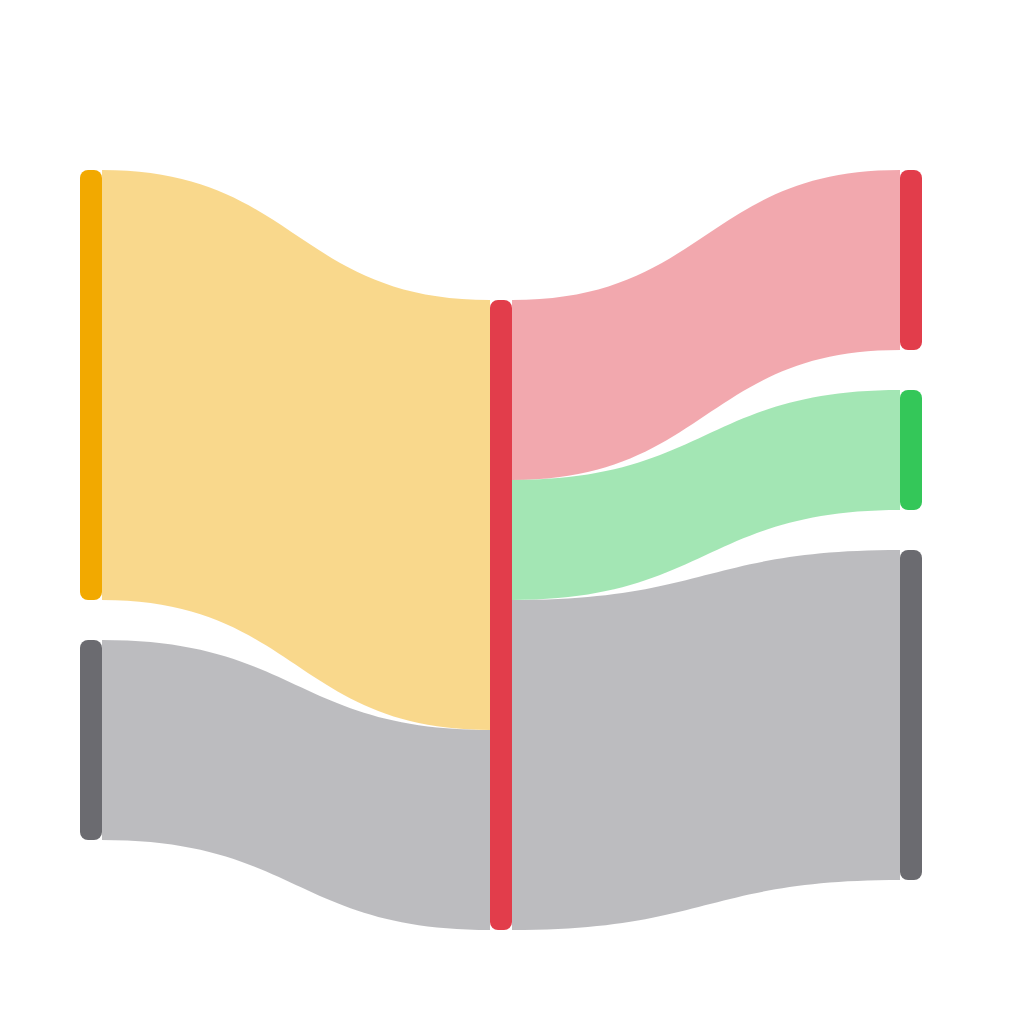
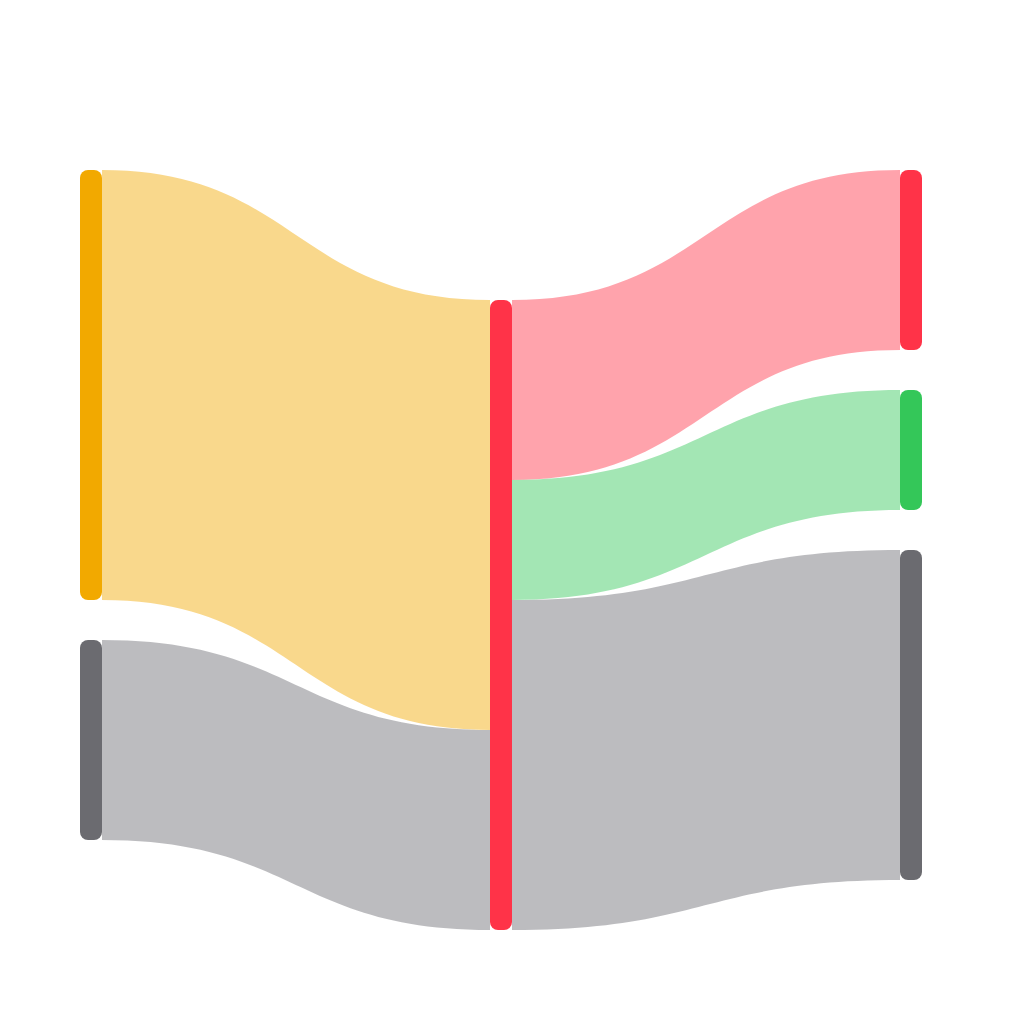
new color scheme

Changed region(s): [[0.4688, 0.2812, 0.5, 0.9062], [0.875, 0.1562, 0.9062, 0.3438]]

diff --git a/widgets/grid/public/index.html b/widgets/grid/public/index.html
@@ -45,7 +45,7 @@
     var X0 = 34; // y labels to the left: 34 (W, kW), 46 (kWh)
     var TOP = 6;
     var AXIS = 14;
-    var FILL = 0.35; // under the measured line
+    var FILL = 1; // under the measured line
     var PALE = 0.4; // expected, as the graph (Palette.PALE)
 
     function el(tag, attrs, parent, text) {
@@ -352,7 +352,7 @@
           var area = line + 'L' + pts[pts.length - 1][0].toFixed(2) + ' ' + y0.toFixed(2) + 'L' + pts[0][0].toFixed(2) + ' ' + y0.toFixed(2) + 'Z';
           [[up, '--c-use'], [down, '--c-export']].forEach(function (p) {
             el('path', { d: area, fill: 'var(' + p[1] + ')', opacity: FILL, 'clip-path': p[0] }, svg);
-            el('path', { d: line, fill: 'none', stroke: 'var(' + p[1] + ')', 'stroke-width': 1, 'stroke-linejoin': 'round', 'clip-path': p[0] }, svg);
+            el('path', { d: line, fill: 'none', stroke: 'var(' + p[1] + ')', 'stroke-width': 2, 'stroke-linejoin': 'round', 'clip-path': p[0] }, svg);
           });
           pts.forEach(function (p) { if (p[1] < y0 - 0.5) hasIn = true; else if (p[1] > y0 + 0.5) hasOut = true; });
         });
@@ -373,8 +373,8 @@
           el('line', { x1: nx, x2: nx, y1: TOP, y2: bottom, class: 'now' }, svg);
         }
         var items = [];
-        if (hasIn) items.push([cap(t('import')), FILL * 2, '--c-use']);
-        if (hasOut) items.push([cap(t('export')), FILL * 2, '--c-export']);
+        if (hasIn) items.push([cap(t('import')), FILL, '--c-use']);
+        if (hasOut) items.push([cap(t('export')), FILL, '--c-export']);
         if (bars.in || bars.out) items.push([t('expected'), PALE, '--c-use']);
         drawLegend(items);
         chart = {

diff --git a/widgets/plan/public/index.html b/widgets/plan/public/index.html
@@ -230,7 +230,7 @@
       }
 
       // Charging in the use colour, discharging in the export colour, as the device graphs: more
-      // solid at more power (0.35-1 of the max (dis)charge power, Palette.powerAlpha; full without
+      // solid at more power (0.7-1 of the max (dis)charge power, Palette.powerAlpha; full without
       // a max), in steps of 0.05 so equal slots join.
       function powerBand(g, vals, color, y, h, sw, max) {
         max = max || {};
@@ -247,7 +247,7 @@
           if (!v) { flush(); return; }
           var fill = v > 0 ? 'var(--c-use)' : 'var(--c-export)';
           var top = v > 0 ? max.charge : max.discharge;
-          var alpha = top > 0 ? Math.round((0.35 + 0.65 * Math.min(1, Math.abs(v) / top)) * 20) / 20 : 1;
+          var alpha = top > 0 ? Math.round((0.7 + 0.3 * Math.min(1, Math.abs(v) / top)) * 20) / 20 : 1;
           if (seg && seg.fill === fill && seg.alpha === alpha && seg.to === i) {
             seg.to = i + 1;
             return;
@@ -269,7 +269,7 @@
               var avg = a.w.slice(r[0], r[1]).reduce(function (x, y) { return x + y; }, 0) / (r[1] - r[0]);
               el('rect', {
                 x: X0 + r[0] * sw, y: top + 2 + ai * rowH + 1, width: (r[1] - r[0]) * sw, height: Math.max(2, rowH - 2), rx: Math.min(4, rowH / 2),
-                fill: color, opacity: 0.35 + 0.65 * (avg / peak),
+                fill: color, opacity: 0.7 + 0.3 * (avg / peak),
               }, g);
             });
           });

diff --git a/tools/widget-preview/gen.js b/tools/widget-preview/gen.js
@@ -15,10 +15,10 @@ const THEMES = {
 
 const SOLAR = '#F2A900';
 const GREEN = '#34C759';
-const CHEAP = '#2F9E44';
-const DEAR = '#8B5CF6';
-const USE = '#E23D4B';
-const EXPORT = '#2F74E0';
+const CHEAP = '#22C55E';
+const DEAR = '#B04DFF';
+const USE = '#FF3348';
+const EXPORT = '#1F8FFF';
 
 const pill = (x, y, w, h, fill) => `<rect x="${x}" y="${y}" width="${w}" height="${h}" rx="${h / 2}" fill="${fill}"/>`;
 
@@ -196,7 +196,7 @@ const gridPreview = (t) => {
   ${[0, 1, 2].map((i) => `${pill(64 + i * 310, 160, 190, 34, t.shape)}${pill(64 + i * 310, 210, 130, 22, t.track)}`).join('')}
   ${[-1, 0, 1].map((i) => `<rect x="${x0}" y="${mid + i * 280}" width="${x1 - x0}" height="5" rx="2.5" fill="${t.track}"/>`).join('')}
   ${bars}
-  <path d="${area}" fill="${USE}" opacity="0.35" clip-path="url(#up)"/><path d="${area}" fill="${EXPORT}" opacity="0.35" clip-path="url(#down)"/>
+  <path d="${area}" fill="${USE}" clip-path="url(#up)"/><path d="${area}" fill="${EXPORT}" clip-path="url(#down)"/>
   <polyline points="${line}" fill="none" stroke="${USE}" stroke-width="12" stroke-linejoin="round" stroke-linecap="round" clip-path="url(#up)"/>
   <polyline points="${line}" fill="none" stroke="${EXPORT}" stroke-width="12" stroke-linejoin="round" stroke-linecap="round" clip-path="url(#down)"/>
   <rect x="${nowX - 4}" y="300" width="8" height="${900 - 300}" rx="4" fill="${t.shape}"/>

diff --git a/widgets/battery/public/colors.css b/widgets/battery/public/colors.css
@@ -5,25 +5,25 @@
   --muted: var(--homey-text-color-light, #8e8e93);
   --line: var(--homey-line-color, rgba(128, 128, 128, 0.25));
   --node-bg: var(--homey-background-color, #ffffff);
-  --c-use: rgb(226, 61, 75);
+  --c-use: rgb(255, 51, 72);
   --c-grid: rgb(122, 134, 160);
   --c-solar: rgb(242, 169, 0);
   --c-battery: rgb(46, 184, 114);
   --c-ev: rgb(142, 108, 239);
-  --c-home: rgb(226, 61, 75);
+  --c-home: rgb(255, 51, 72);
   --c-gas: rgb(232, 89, 12);
   --c-water: rgb(14, 165, 233);
   --c-climate: rgb(230, 73, 128);
   --c-appliance: rgb(20, 184, 166);
   --c-zone: rgb(52, 199, 123);
-  --c-export: rgb(47, 116, 224);
-  --c-xom: rgba(47, 116, 224, 0.6);
+  --c-export: rgb(31, 143, 255);
+  --c-xom: rgb(124, 196, 255);
   --c-price: rgb(142, 142, 147);
-  --c-free: rgb(28, 107, 48);
-  --c-cheap: rgb(47, 158, 68);
+  --c-free: rgb(0, 224, 164);
+  --c-cheap: rgb(34, 197, 94);
   --c-normal: rgba(142, 142, 147, 0.45);
-  --c-dear: rgb(139, 92, 246);
-  --c-hold: rgb(122, 134, 160);
+  --c-dear: rgb(176, 77, 255);
+  --c-hold: rgb(179, 188, 204);
   --c-idle: rgba(142, 142, 147, 0.45);
   --c-average: rgb(176, 137, 104);
   --pale: 0.4;

diff --git a/widgets/energy/public/colors.css b/widgets/energy/public/colors.css
@@ -5,25 +5,25 @@
   --muted: var(--homey-text-color-light, #8e8e93);
   --line: var(--homey-line-color, rgba(128, 128, 128, 0.25));
   --node-bg: var(--homey-background-color, #ffffff);
-  --c-use: rgb(226, 61, 75);
+  --c-use: rgb(255, 51, 72);
   --c-grid: rgb(122, 134, 160);
   --c-solar: rgb(242, 169, 0);
   --c-battery: rgb(46, 184, 114);
   --c-ev: rgb(142, 108, 239);
-  --c-home: rgb(226, 61, 75);
+  --c-home: rgb(255, 51, 72);
   --c-gas: rgb(232, 89, 12);
   --c-water: rgb(14, 165, 233);
   --c-climate: rgb(230, 73, 128);
   --c-appliance: rgb(20, 184, 166);
   --c-zone: rgb(52, 199, 123);
-  --c-export: rgb(47, 116, 224);
-  --c-xom: rgba(47, 116, 224, 0.6);
+  --c-export: rgb(31, 143, 255);
+  --c-xom: rgb(124, 196, 255);
   --c-price: rgb(142, 142, 147);
-  --c-free: rgb(28, 107, 48);
-  --c-cheap: rgb(47, 158, 68);
+  --c-free: rgb(0, 224, 164);
+  --c-cheap: rgb(34, 197, 94);
   --c-normal: rgba(142, 142, 147, 0.45);
-  --c-dear: rgb(139, 92, 246);
-  --c-hold: rgb(122, 134, 160);
+  --c-dear: rgb(176, 77, 255);
+  --c-hold: rgb(179, 188, 204);
   --c-idle: rgba(142, 142, 147, 0.45);
   --c-average: rgb(176, 137, 104);
   --pale: 0.4;

diff --git a/widgets/ev/public/colors.css b/widgets/ev/public/colors.css
@@ -5,25 +5,25 @@
   --muted: var(--homey-text-color-light, #8e8e93);
   --line: var(--homey-line-color, rgba(128, 128, 128, 0.25));
   --node-bg: var(--homey-background-color, #ffffff);
-  --c-use: rgb(226, 61, 75);
+  --c-use: rgb(255, 51, 72);
   --c-grid: rgb(122, 134, 160);
   --c-solar: rgb(242, 169, 0);
   --c-battery: rgb(46, 184, 114);
   --c-ev: rgb(142, 108, 239);
-  --c-home: rgb(226, 61, 75);
+  --c-home: rgb(255, 51, 72);
   --c-gas: rgb(232, 89, 12);
   --c-water: rgb(14, 165, 233);
   --c-climate: rgb(230, 73, 128);
   --c-appliance: rgb(20, 184, 166);
   --c-zone: rgb(52, 199, 123);
-  --c-export: rgb(47, 116, 224);
-  --c-xom: rgba(47, 116, 224, 0.6);
+  --c-export: rgb(31, 143, 255);
+  --c-xom: rgb(124, 196, 255);
   --c-price: rgb(142, 142, 147);
-  --c-free: rgb(28, 107, 48);
-  --c-cheap: rgb(47, 158, 68);
+  --c-free: rgb(0, 224, 164);
+  --c-cheap: rgb(34, 197, 94);
   --c-normal: rgba(142, 142, 147, 0.45);
-  --c-dear: rgb(139, 92, 246);
-  --c-hold: rgb(122, 134, 160);
+  --c-dear: rgb(176, 77, 255);
+  --c-hold: rgb(179, 188, 204);
   --c-idle: rgba(142, 142, 147, 0.45);
   --c-average: rgb(176, 137, 104);
   --pale: 0.4;

diff --git a/widgets/flows/public/colors.css b/widgets/flows/public/colors.css
@@ -5,25 +5,25 @@
   --muted: var(--homey-text-color-light, #8e8e93);
   --line: var(--homey-line-color, rgba(128, 128, 128, 0.25));
   --node-bg: var(--homey-background-color, #ffffff);
-  --c-use: rgb(226, 61, 75);
+  --c-use: rgb(255, 51, 72);
   --c-grid: rgb(122, 134, 160);
   --c-solar: rgb(242, 169, 0);
   --c-battery: rgb(46, 184, 114);
   --c-ev: rgb(142, 108, 239);
-  --c-home: rgb(226, 61, 75);
+  --c-home: rgb(255, 51, 72);
   --c-gas: rgb(232, 89, 12);
   --c-water: rgb(14, 165, 233);
   --c-climate: rgb(230, 73, 128);
   --c-appliance: rgb(20, 184, 166);
   --c-zone: rgb(52, 199, 123);
-  --c-export: rgb(47, 116, 224);
-  --c-xom: rgba(47, 116, 224, 0.6);
+  --c-export: rgb(31, 143, 255);
+  --c-xom: rgb(124, 196, 255);
   --c-price: rgb(142, 142, 147);
-  --c-free: rgb(28, 107, 48);
-  --c-cheap: rgb(47, 158, 68);
+  --c-free: rgb(0, 224, 164);
+  --c-cheap: rgb(34, 197, 94);
   --c-normal: rgba(142, 142, 147, 0.45);
-  --c-dear: rgb(139, 92, 246);
-  --c-hold: rgb(122, 134, 160);
+  --c-dear: rgb(176, 77, 255);
+  --c-hold: rgb(179, 188, 204);
   --c-idle: rgba(142, 142, 147, 0.45);
   --c-average: rgb(176, 137, 104);
   --pale: 0.4;

diff --git a/widgets/grid/public/colors.css b/widgets/grid/public/colors.css
@@ -5,25 +5,25 @@
   --muted: var(--homey-text-color-light, #8e8e93);
   --line: var(--homey-line-color, rgba(128, 128, 128, 0.25));
   --node-bg: var(--homey-background-color, #ffffff);
-  --c-use: rgb(226, 61, 75);
+  --c-use: rgb(255, 51, 72);
   --c-grid: rgb(122, 134, 160);
   --c-solar: rgb(242, 169, 0);
   --c-battery: rgb(46, 184, 114);
   --c-ev: rgb(142, 108, 239);
-  --c-home: rgb(226, 61, 75);
+  --c-home: rgb(255, 51, 72);
   --c-gas: rgb(232, 89, 12);
   --c-water: rgb(14, 165, 233);
   --c-climate: rgb(230, 73, 128);
   --c-appliance: rgb(20, 184, 166);
   --c-zone: rgb(52, 199, 123);
-  --c-export: rgb(47, 116, 224);
-  --c-xom: rgba(47, 116, 224, 0.6);
+  --c-export: rgb(31, 143, 255);
+  --c-xom: rgb(124, 196, 255);
   --c-price: rgb(142, 142, 147);
-  --c-free: rgb(28, 107, 48);
-  --c-cheap: rgb(47, 158, 68);
+  --c-free: rgb(0, 224, 164);
+  --c-cheap: rgb(34, 197, 94);
   --c-normal: rgba(142, 142, 147, 0.45);
-  --c-dear: rgb(139, 92, 246);
-  --c-hold: rgb(122, 134, 160);
+  --c-dear: rgb(176, 77, 255);
+  --c-hold: rgb(179, 188, 204);
   --c-idle: rgba(142, 142, 147, 0.45);
   --c-average: rgb(176, 137, 104);
   --pale: 0.4;

diff --git a/widgets/plan/public/colors.css b/widgets/plan/public/colors.css
@@ -5,25 +5,25 @@
   --muted: var(--homey-text-color-light, #8e8e93);
   --line: var(--homey-line-color, rgba(128, 128, 128, 0.25));
   --node-bg: var(--homey-background-color, #ffffff);
-  --c-use: rgb(226, 61, 75);
+  --c-use: rgb(255, 51, 72);
   --c-grid: rgb(122, 134, 160);
   --c-solar: rgb(242, 169, 0);
   --c-battery: rgb(46, 184, 114);
   --c-ev: rgb(142, 108, 239);
-  --c-home: rgb(226, 61, 75);
+  --c-home: rgb(255, 51, 72);
   --c-gas: rgb(232, 89, 12);
   --c-water: rgb(14, 165, 233);
   --c-climate: rgb(230, 73, 128);
   --c-appliance: rgb(20, 184, 166);
   --c-zone: rgb(52, 199, 123);
-  --c-export: rgb(47, 116, 224);
-  --c-xom: rgba(47, 116, 224, 0.6);
+  --c-export: rgb(31, 143, 255);
+  --c-xom: rgb(124, 196, 255);
   --c-price: rgb(142, 142, 147);
-  --c-free: rgb(28, 107, 48);
-  --c-cheap: rgb(47, 158, 68);
+  --c-free: rgb(0, 224, 164);
+  --c-cheap: rgb(34, 197, 94);
   --c-normal: rgba(142, 142, 147, 0.45);
-  --c-dear: rgb(139, 92, 246);
-  --c-hold: rgb(122, 134, 160);
+  --c-dear: rgb(176, 77, 255);
+  --c-hold: rgb(179, 188, 204);
   --c-idle: rgba(142, 142, 147, 0.45);
   --c-average: rgb(176, 137, 104);
   --pale: 0.4;

diff --git a/widgets/price/public/colors.css b/widgets/price/public/colors.css
@@ -5,25 +5,25 @@
   --muted: var(--homey-text-color-light, #8e8e93);
   --line: var(--homey-line-color, rgba(128, 128, 128, 0.25));
   --node-bg: var(--homey-background-color, #ffffff);
-  --c-use: rgb(226, 61, 75);
+  --c-use: rgb(255, 51, 72);
   --c-grid: rgb(122, 134, 160);
   --c-solar: rgb(242, 169, 0);
   --c-battery: rgb(46, 184, 114);
   --c-ev: rgb(142, 108, 239);
-  --c-home: rgb(226, 61, 75);
+  --c-home: rgb(255, 51, 72);
   --c-gas: rgb(232, 89, 12);
   --c-water: rgb(14, 165, 233);
   --c-climate: rgb(230, 73, 128);
   --c-appliance: rgb(20, 184, 166);
   --c-zone: rgb(52, 199, 123);
-  --c-export: rgb(47, 116, 224);
-  --c-xom: rgba(47, 116, 224, 0.6);
+  --c-export: rgb(31, 143, 255);
+  --c-xom: rgb(124, 196, 255);
   --c-price: rgb(142, 142, 147);
-  --c-free: rgb(28, 107, 48);
-  --c-cheap: rgb(47, 158, 68);
+  --c-free: rgb(0, 224, 164);
+  --c-cheap: rgb(34, 197, 94);
   --c-normal: rgba(142, 142, 147, 0.45);
-  --c-dear: rgb(139, 92, 246);
-  --c-hold: rgb(122, 134, 160);
+  --c-dear: rgb(176, 77, 255);
+  --c-hold: rgb(179, 188, 204);
   --c-idle: rgba(142, 142, 147, 0.45);
   --c-average: rgb(176, 137, 104);
   --pale: 0.4;

diff --git a/widgets/solar/public/colors.css b/widgets/solar/public/colors.css
@@ -5,25 +5,25 @@
   --muted: var(--homey-text-color-light, #8e8e93);
   --line: var(--homey-line-color, rgba(128, 128, 128, 0.25));
   --node-bg: var(--homey-background-color, #ffffff);
-  --c-use: rgb(226, 61, 75);
+  --c-use: rgb(255, 51, 72);
   --c-grid: rgb(122, 134, 160);
   --c-solar: rgb(242, 169, 0);
   --c-battery: rgb(46, 184, 114);
   --c-ev: rgb(142, 108, 239);
-  --c-home: rgb(226, 61, 75);
+  --c-home: rgb(255, 51, 72);
   --c-gas: rgb(232, 89, 12);
   --c-water: rgb(14, 165, 233);
   --c-climate: rgb(230, 73, 128);
   --c-appliance: rgb(20, 184, 166);
   --c-zone: rgb(52, 199, 123);
-  --c-export: rgb(47, 116, 224);
-  --c-xom: rgba(47, 116, 224, 0.6);
+  --c-export: rgb(31, 143, 255);
+  --c-xom: rgb(124, 196, 255);
   --c-price: rgb(142, 142, 147);
-  --c-free: rgb(28, 107, 48);
-  --c-cheap: rgb(47, 158, 68);
+  --c-free: rgb(0, 224, 164);
+  --c-cheap: rgb(34, 197, 94);
   --c-normal: rgba(142, 142, 147, 0.45);
-  --c-dear: rgb(139, 92, 246);
-  --c-hold: rgb(122, 134, 160);
+  --c-dear: rgb(176, 77, 255);
+  --c-hold: rgb(179, 188, 204);
   --c-idle: rgba(142, 142, 147, 0.45);
   --c-average: rgb(176, 137, 104);
   --pale: 0.4;

diff --git a/lib/charts/Palette.js b/lib/charts/Palette.js
@@ -19,8 +19,8 @@ along with com.gruijter.powerhour.  If not, see <http://www.gnu.org/licenses/>.
 
 'use strict';
 
-const USE = '#e23d4b';
-const EXPORT = '#2f74e0';
+const USE = '#ff3348';
+const EXPORT = '#1f8fff';
 const COLORS = {
   use: USE,
   grid: '#7a86a0',
@@ -34,18 +34,18 @@ const COLORS = {
   appliance: '#14b8a6',
   zone: '#34c77b',
   export: EXPORT,
-  xom: [EXPORT, 0.6],
+  xom: '#7cc4ff',
   price: '#8e8e93',
-  free: '#1c6b30',
-  cheap: '#2f9e44',
+  free: '#00e0a4',
+  cheap: '#22c55e',
   normal: ['#8e8e93', 0.45],
-  dear: '#8b5cf6',
-  hold: '#7a86a0',
+  dear: '#b04dff',
+  hold: '#b3bccc',
   idle: ['#8e8e93', 0.45],
   average: '#b08968',
 };
 const PALE = 0.4;
-const powerAlpha = (ratio) => 0.35 + 0.65 * Math.max(0, Math.min(1, ratio || 0));
+const powerAlpha = (ratio) => 0.7 + 0.3 * Math.max(0, Math.min(1, ratio || 0));
 
 const parts = (name) => {
   const c = COLORS[name] || COLORS.price;
